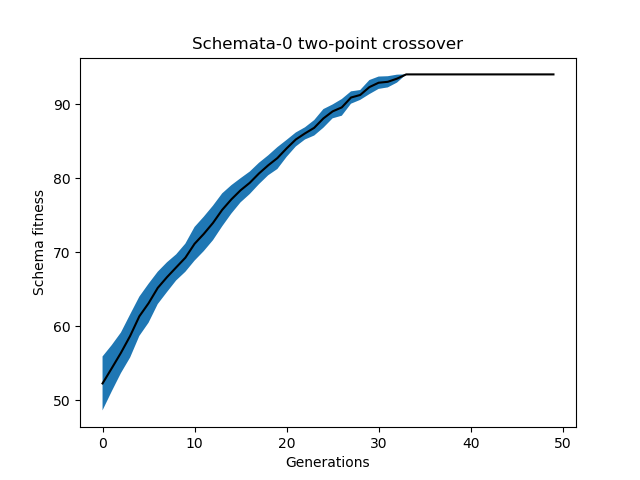
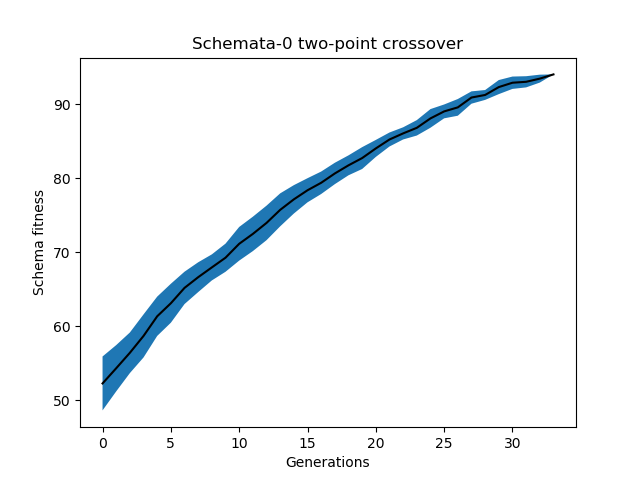
plots and last changes to the codes

diff --git a/Main.py b/Main.py
@@ -7,7 +7,7 @@ import params
 from Crossover import uniform_crossover, two_point_crossover, compete
 from Plot import read_file
 from individual import trap_function_non_linked, trap_function_linked, counting_ones
-from params import generations, datapoints, population_size
+from params import generations, datapoints, population_size, max_pop_size
 from population import Population, create_initial_population
 from printer import log_exp, log1, log2, log3
 
@@ -78,6 +78,8 @@ def run_generations(xover, ff, popsize, log):
             if len(fitnesses_s0) < 2:
                 if len(fitnesses_s0) == 1:
                     mean_f_s0 = fitnesses_s0[0]
+                else:
+                    mean_f_s0 = 'nan'
                 sdev_f_s0 = 0
             else:
                 mean_f_s0 = mean(fitnesses_s0)
@@ -139,9 +141,9 @@ def update_popsize(popsize, lower_bound_popsize, upper_bound_popsize, optimum_fo
 
     else:
         if upper_bound_popsize is None:
-            if popsize < 1280:
+            if popsize < max_pop_size:
                 return popsize * 2, popsize, None, False
-            return 1280, 1280, 1280, True
+            return max_pop_size, max_pop_size, max_pop_size, True
         else:
             new_popsize = int((popsize + upper_bound_popsize) / 2)
             if new_popsize % 10 == 0:
@@ -181,64 +183,70 @@ def find_popsize(fitness_function, xover):
 def run_experiment(ff, xover):
     popsize = find_popsize(ff, xover)
 
-    cpu_times = []
     evaluations = []
     amt_generations = []
-    unsuccessful_generations = []
+    unsuccessful_runs = []
     t1 = process_time()
     for i in range(datapoints):
         (evals, amount_of_generations, generation_succesful) = run_generations(xover, ff, popsize, "experiment")
         if not generation_succesful:
-            unsuccessful_generations.append(i)
+            unsuccessful_runs.append(i)
 
         evaluations += evals
         amt_generations += amount_of_generations
 
     t2 = process_time()
     print("experiment finished")
-    print("generations: ", amt_generations)
-    print("unsuccesful generations: ", unsuccessful_generations)
+    print("unsuccesful runs: ", len(unsuccessful_runs))
     print("average amount of generations: ", mean(amt_generations))
-    print("standard deviation of generations: ", stdev(amt_generations))
-
-    print("processing time (s): ", t1 - t2)
+    print("processing time (s): ", t2 - t1)
     log_exp([ff.__name__,
              xover.__name__,
              popsize,
-             mean(amt_generations), stdev(amt_generations), len(unsuccessful_generations),
+             mean(amt_generations), stdev(amt_generations), len(unsuccessful_runs),
              mean(evaluations), stdev(evaluations),
-             t1 - t2,
+             t2 - t1,
              params.deceptiveness])
 
 
-def __main__(x=None, fitfunc=None, crossover=None, assignment=None):
+def __main__(x=None, p1=None, p2=None, p3=None):
+    # p1 can take 2 forms:
+    #   the index of the fitness function (when running experiments)
+    #   'plot' : when plotting graphs.
+    # p2 can take 2 forms:
+    #   the index of the crossover operator
+    #   when plotting: which exercise we're plotting
+    # p3 can take 1 form:
+    #   which exercise we're running
+    # running with no parameters runs all 5 experiments, creating an output file with data. This plots nothing.
+
     ffs = [counting_ones, trap_function_linked, trap_function_non_linked]
     xovers = [uniform_crossover, two_point_crossover]
 
-    if fitfunc == "plot":
-        read_file(crossover)
+    if p1 == "plot":
+        read_file(p2)
         exit()
 
-    if assignment is not None:
-        print("running assignment ", assignment)
+    if p3 is not None:
+        print("\nrunning assignment ", p3)
         for x in xovers:
-            optimum_found = run_generations(x, counting_ones, population_size, assignment)
+            optimum_found = run_generations(x, counting_ones, population_size, p3)
             print("optimum_found: ", optimum_found)
 
     else:
-        if fitfunc is not None and crossover is not None:
-            ffs = [ffs[int(fitfunc)]]
-            xovers = [xovers[int(crossover)]]
+        if p1 is not None and p2 is not None:
+            ffs = [ffs[int(p1)]]
+            xovers = [xovers[int(p2)]]
 
         for ff in ffs:
             for xover in xovers:
 
                 if ff.__name__ is "counting_ones":
-                    print("\n\nrunning %s with %s" % (ff.__name__, xover.__name__))
+                    print("\nrunning %s with %s" % (ff.__name__, xover.__name__))
                     run_experiment(ff, xover)
                 else:
                     for d in [1, 2.5]:
-                        print("\n\nrunning %s with %s and deceptiveness %s" % (ff.__name__, xover.__name__, d))
+                        print("\nrunning %s with %s and deceptiveness %s" % (ff.__name__, xover.__name__, d))
                         params.deceptiveness = d
                         run_experiment(ff, xover)
 

diff --git a/Plot.py b/Plot.py
@@ -80,33 +80,35 @@ def read_file(e):
              count_s0, count_s1,
              avg_fitness_s0, stdev_fitness_s0,
              avg_fitness_s1, stdev_fitness_s1] \
-                in reader(open('output_e3.csv')):
+                in reader(open('output_e3_b.csv')):
             if xover == "xover":
                 continue
             elif xover == "uniform_crossover":
                 ux_sols0.append(float(count_s0))
                 ux_sols1.append(float(count_s1))
-                try:
+
+                if count_s0 != '0':
+                    # print(count_s0)
                     ux_fit0.append(float(avg_fitness_s0))
-                except:
-                    pass
+                    ux_sdev0.append(float(stdev_fitness_s0))
+
                 ux_fit1.append(float(avg_fitness_s1))
-                ux_sdev0.append(float(stdev_fitness_s0))
                 ux_sdev1.append(float(stdev_fitness_s1))
             else:
                 tpx_sols0.append(float(count_s0))
                 tpx_sols1.append(float(count_s1))
-                try:
+                
+                if count_s0 != '0':
+                    # print(count_s0)
                     tpx_fit0.append(float(avg_fitness_s0))
-                except:
-                    pass
+                    tpx_sdev0.append(float(stdev_fitness_s0))
+
                 tpx_fit1.append(float(avg_fitness_s1))
-                tpx_sdev0.append(float(stdev_fitness_s0))
                 tpx_sdev1.append(float(stdev_fitness_s1))
 
         # pyplot.plot(range(len(ux_sols0)), ux_sols0, label="schema 0")
         # pyplot.plot(range(len(ux_sols1)), ux_sols1, label="schema 1")
-        # 
+        #
         # pyplot.title("Schemata count uniform crossover")
         # pyplot.xlabel("Generations")
         # pyplot.ylabel("count")

diff --git a/individual.py b/individual.py
@@ -18,7 +18,6 @@ def trap(n):
 
 
 def trap_function_linked(genotype):
-    # lower deceptiveness = more deceptive
     bees = []
     for j in range(int(len(genotype) / k_length)):
         bees.append(trap(genotype[j * k_length:j * k_length + k_length]))
@@ -26,7 +25,6 @@ def trap_function_linked(genotype):
 
 
 def trap_function_non_linked(genotype):
-    # lower deceptiveness = more deceptive
     bees = []
     gen_len = len(genotype)
     for i in range(int(gen_len / 4)):

diff --git a/params.py b/params.py
@@ -1,9 +1,7 @@
 population_size = 250
 k_length = 4
-deceptiveness = None  # 2.5  # deceptiveness; lower deceptiveness is more deceptive
+deceptiveness = None   # deceptiveness; lower deceptiveness is more deceptive
 generations = 1000
 genotype_size = 100
 datapoints = 25
-# fitness function, crossover operation
-ff = None
-xover = None
+max_pop_size = 1280

diff --git a/printer.py b/printer.py
@@ -12,7 +12,7 @@ def log_exp(data):
             "cpu_time",
             "deceptiveness"]
     datadict = dict(zip(keys, data))
-    write_line(datadict, keys, "outputfile2_%sg.csv" % generations)
+    write_line(datadict, keys, "Xoutputfile_%sg.csv" % generations)
 
 
 def write_line(dict, keys, filename):

diff --git a/Crossover.py b/Crossover.py
@@ -34,12 +34,6 @@ def two_point_crossover(parent1, parent2, ff):
     return child1, child2
 
 
-def printfamily(f):
-    print("\n\nfamily")
-    for i in f:
-        i.view_individual()
-
-
 def selection_error(parent1, parent2, win1, win2):
     error_counter = 0
     correct_counter = 0
